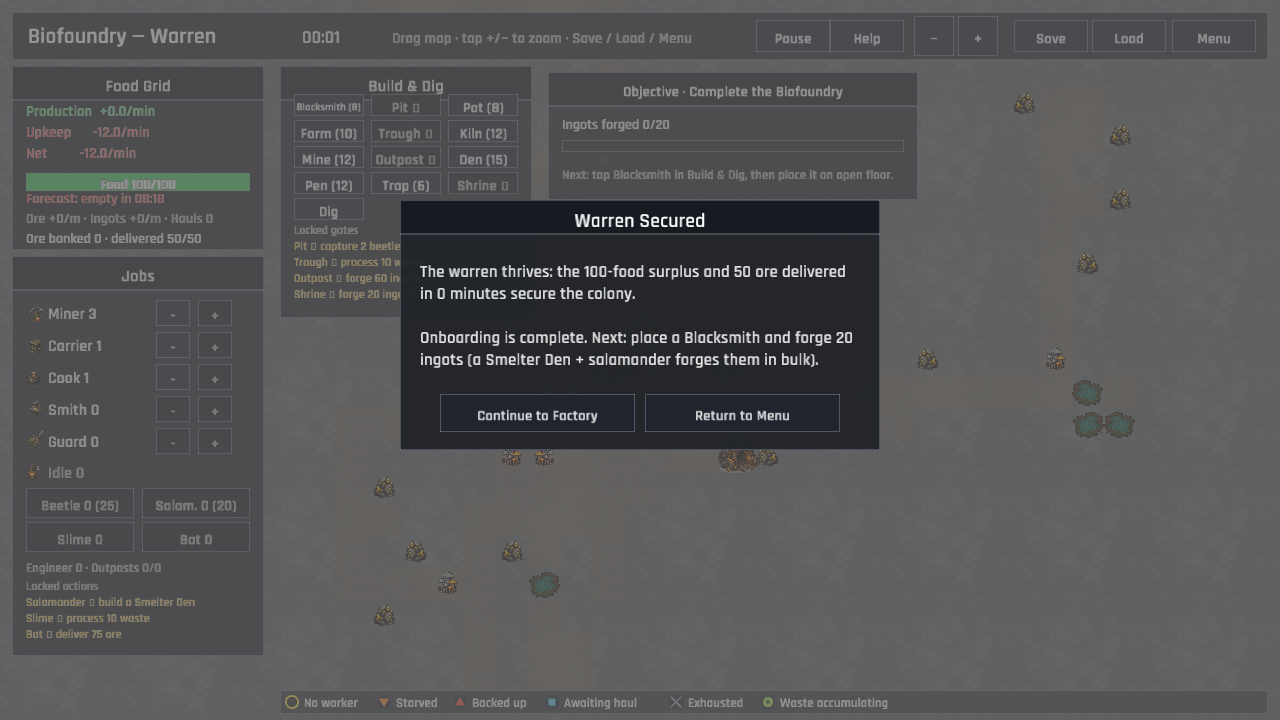
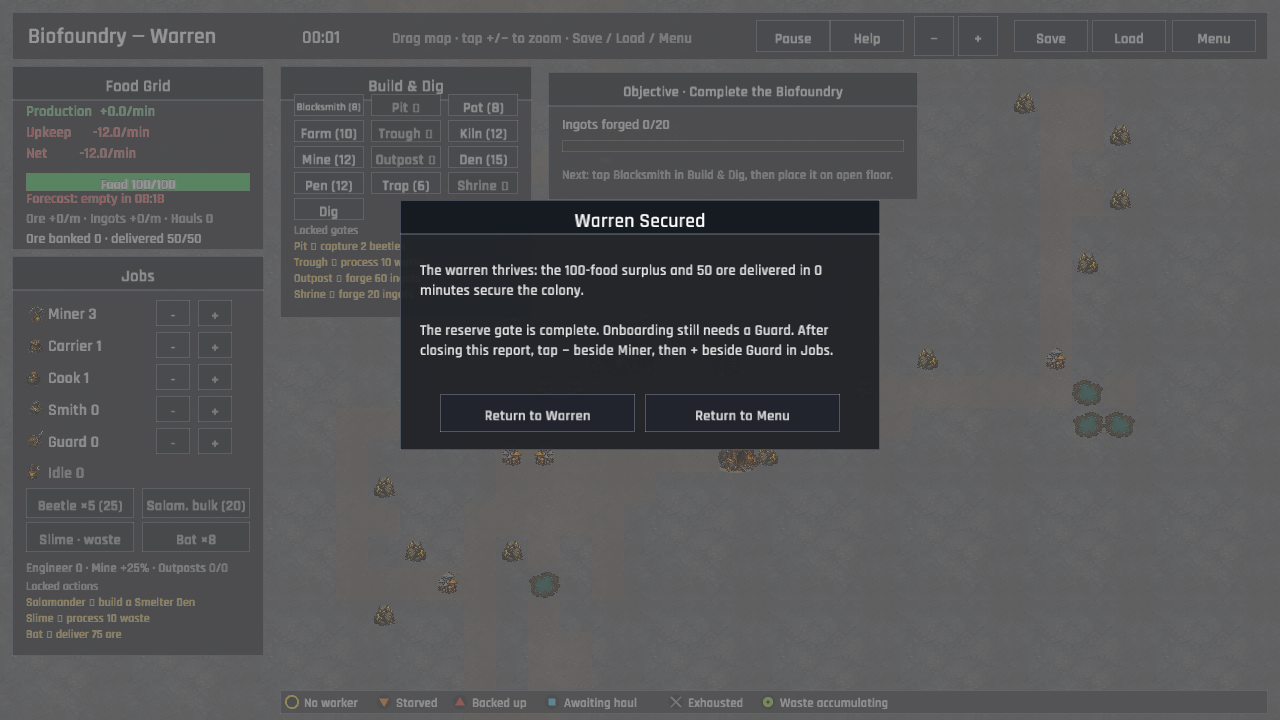
The reserve gate tells the watch where to stand (P1 victory handoff)
The victory overlay still claimed onboarding was complete even when the newly guarded tutorial was waiting for a defender. That contradiction hid the required next action behind a misleading factory button.

Make the report and primary button reflect whether a Guard is already assigned, name the exact visible job controls when one is missing, derive the displayed food threshold from balance data, and cover both branches with focused HUD tests. Refresh the canonical victory capture and publish the Windows and WebGL candidate.

Changed region(s): [[0.3125, 0.3667, 0.6875, 0.5194], [0.0312, 0.6722, 0.1875, 0.7944], [0.375, 0.55, 0.4688, 0.5806]]

diff --git a/src/ui/hud.rs b/src/ui/hud.rs
@@ -144,14 +144,9 @@ pub fn draw(
     } else if victory_up {
         overlays::draw_goal_overlay(
             "Warren Secured",
-            &format!(
-                "The warren thrives: the 100-food surplus and {} ore delivered in {:.0} minutes secure the colony.\n\nOnboarding is complete. Next: place a Blacksmith and forge {} ingots (a Smelter Den + salamander forges them in bulk).",
-                session.economy.ore_delivered_total,
-                simulation::sim_seconds(session) / 60.0,
-                data.balance.win2_ingots
-            ),
+            &warren_victory_body(session, data),
             UiAction::DismissVictory,
-            "Continue to Factory",
+            warren_victory_continue_label(session),
             mouse,
             &mut actions,
         );
@@ -194,6 +189,37 @@ fn worm_completion_body(session: &GameSession) -> String {
         session.worm_ingots_fed,
         simulation::sim_seconds(session) / 60.0
     )
+}
+
+fn warren_victory_body(session: &GameSession, data: &GameData) -> String {
+    let base = format!(
+        "The warren thrives: the {:.0}-food surplus and {} ore delivered in {:.0} minutes secure the colony.",
+        data.balance.win_food_surplus,
+        session.economy.ore_delivered_total,
+        simulation::sim_seconds(session) / 60.0
+    );
+    if session.job_count(Job::Guard) > 0 {
+        format!(
+            "{base}\n\nOnboarding is complete. Next: place a Blacksmith and forge {} ingots (a Smelter Den + salamander forges them in bulk).",
+            data.balance.win2_ingots
+        )
+    } else if session.job_count(Job::Idle) > 0 {
+        format!(
+            "{base}\n\nThe reserve gate is complete. Onboarding still needs a Guard. After closing this report, tap + beside Guard in Jobs."
+        )
+    } else {
+        format!(
+            "{base}\n\nThe reserve gate is complete. Onboarding still needs a Guard. After closing this report, tap − beside Miner, then + beside Guard in Jobs."
+        )
+    }
+}
+
+fn warren_victory_continue_label(session: &GameSession) -> &'static str {
+    if session.job_count(Job::Guard) > 0 {
+        "Continue to Factory"
+    } else {
+        "Return to Warren"
+    }
 }
 
 /// Claim the small invisible margins around top-bar buttons for the HUD too.

diff --git a/src/ui/hud/tests.rs b/src/ui/hud/tests.rs
@@ -1,4 +1,5 @@
 use super::*;
+use crate::state::creatures::Job;
 
 #[test]
 fn top_bar_claims_scaled_button_margin_before_world_input() {
@@ -43,4 +44,25 @@ fn worm_completion_summary_names_the_resources_consumed() {
         data.balance.worm_awaken_at, data.balance.worm_awaken_ingots
     )));
     assert!(!body.contains("offerings"));
+}
+
+#[test]
+fn warren_victory_report_keeps_the_guard_handoff_explicit() {
+    let data = GameData::load().unwrap();
+    let mut session = GameSession::new(&data, 42);
+    session.won = true;
+
+    let body = warren_victory_body(&session, &data);
+    assert!(body.contains("Onboarding still needs a Guard"));
+    assert!(body.contains("tap − beside Miner, then + beside Guard"));
+    assert_eq!(warren_victory_continue_label(&session), "Return to Warren");
+
+    session.creatures[0].job = Job::Guard;
+    let body = warren_victory_body(&session, &data);
+    assert!(body.contains("Onboarding is complete"));
+    assert!(!body.contains("still needs a Guard"));
+    assert_eq!(
+        warren_victory_continue_label(&session),
+        "Continue to Factory"
+    );
 }
